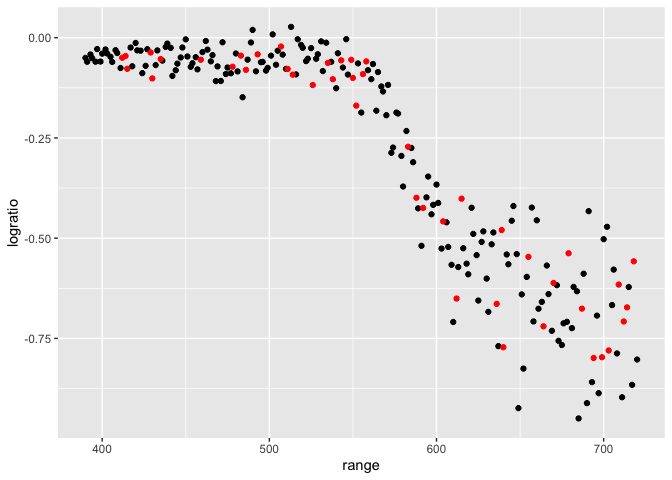
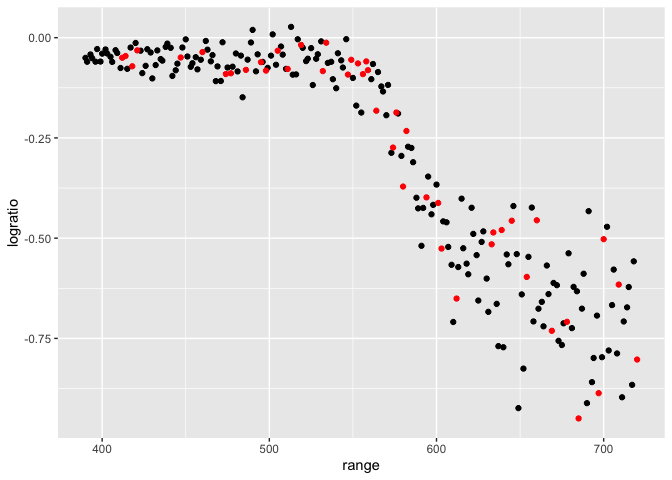
Fitting various models, examining RMSE

diff --git a/cross_validation.md b/cross_validation.md
@@ -126,20 +126,87 @@ Try computing our RMSEs (root mean square error)
 rmse(linear_mod, test_df)
 ```
 
-    ## [1] 0.1260416
+    ## [1] 0.1406357
 
 ``` r
 rmse(smooth_mod, test_df)
 ```
 
-    ## [1] 0.07141255
+    ## [1] 0.08898497
 
 ``` r
 rmse(wiggly_mod, test_df)
 ```
 
-    ## [1] 0.08275634
+    ## [1] 0.09315303
 
 ``` r
 #smaller rmse usually means better fit
 ```
+
+## Iterate!
+
+``` r
+cv_df =
+  crossv_mc(lidar_df, n = 100) |> 
+  mutate(
+    train = map(train, as_tibble),
+    test = map(test, as_tibble)
+  )
+```
+
+Did this work? Yes!
+
+``` r
+cv_df |> pull(train) |> nth(8) #gives e.g. 8th training and testing split
+```
+
+    ## # A tibble: 176 × 3
+    ##    range logratio    id
+    ##    <dbl>    <dbl> <int>
+    ##  1   391  -0.0601     2
+    ##  2   393  -0.0419     3
+    ##  3   394  -0.0510     4
+    ##  4   396  -0.0599     5
+    ##  5   397  -0.0284     6
+    ##  6   399  -0.0596     7
+    ##  7   400  -0.0399     8
+    ##  8   403  -0.0395    10
+    ##  9   406  -0.0604    12
+    ## 10   408  -0.0312    13
+    ## # ℹ 166 more rows
+
+Let’s fit models over and over
+
+``` r
+cv_df =
+cv_df |> 
+  mutate(
+    linear_fits = map(train, \(df) lm(logratio ~ range, data = df)), #using anonymous function
+    smooth_fits = map(train, \(df) mgcv::gam(logratio ~ s(range), data = df)),
+    wiggly_fits = map(train, \(df) mgcv::gam(logratio ~ s(range, k = 50), sp = 10e-8, data = df)),
+  ) |> 
+  #Equivalently, can create a function, and then use it. But we just have 1 input, so let's use an anonymous function
+  mutate(
+    rmse_linear = map2_dbl(linear_fits, test, rmse), #map2 allows 2 input lists (applies a function to 2 inputs) and the dbl shows us the value (uncollapses)
+    rmse_smooth = map2_dbl(smooth_fits, test, rmse),
+    rmse_wiggly = map2_dbl(wiggly_fits, test, rmse)
+  )
+```
+
+Let’s try to look at this better
+
+``` r
+cv_df |> 
+  select(starts_with("rmse")) |> 
+  pivot_longer(
+    everything(),
+    names_to = "model",
+    values_to = "rmse",
+    names_prefix = "rmse_"
+  ) |> 
+  ggplot(aes(x = model, y = rmse)) + 
+  geom_violin()
+```
+
+![](cross_validation_files/figure-gfm/unnamed-chunk-13-1.png)<!-- -->
